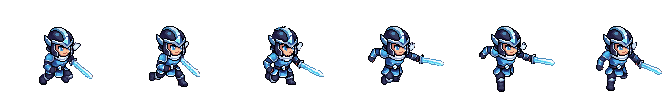
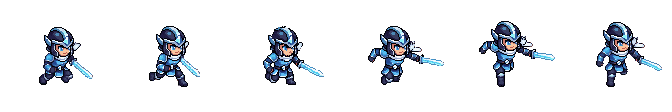
AERIN Phase 2: sửa Run theo Art Director (nâng F5/F6 về chân y86, dán lại khăn F4–F6, pixel-exact)
Claude-Session: https://claude.ai/code/session_01W9tcvqtq7TKxDYHKwgQMJZ

diff --git a/tieng-vong-cuoi-cung/art/aerin/phase2/sua-chay.py b/tieng-vong-cuoi-cung/art/aerin/phase2/sua-chay.py
@@ -1,0 +1,32 @@
+# Sửa Run theo Art Director (pixel-exact): F5 nâng 5px, F6 nâng 4px; F4–F6 dán lại cụm khăn trắng từ Idle F1 (chép nguyên pixel, chỉ vẽ vào chỗ trống = nằm sau thân)
+import os
+from PIL import Image
+D=os.path.dirname(os.path.abspath(__file__))+'/'
+idle=Image.open(D+'goc/dung-0.png').convert('RGBA')
+BOX=(68,39,83,53)   # cụm khăn trong Idle F1
+scarf=[(x,y,idle.getpixel((x,y))) for y in range(BOX[1],BOX[3]) for x in range(BOX[0],BOX[2]) if idle.getpixel((x,y))[3]]
+def helm(f):  # mép trên + mép phải vùng mũ (hàng 24..40)
+    pts=[(x,y) for y in range(20,41) for x in range(112) if f.getpixel((x,y))[3]]
+    return min(y for x,y in pts), max(x for x,y in pts if y<38)
+ht,hr=helm(idle)
+os.makedirs(D+'sua',exist_ok=True)
+SHIFT={4:5,5:4}
+for k in range(6):
+    f=Image.open(D+f'goc/chay-{k}.png').convert('RGBA')
+    if k in (3,4,5):
+        t,r=helm(f); dx,dy=r-hr,t-ht
+        for x,y,p in scarf:
+            q=(x+dx,y+dy)
+            if 0<=q[0]<112 and 0<=q[1]<112 and not f.getpixel(q)[3]: f.putpixel(q,p)
+    if k in SHIFT:
+        g=Image.new('RGBA',f.size); g.alpha_composite(f.crop((0,SHIFT[k],112,112)),(0,0)); f=g
+    f.save(D+f'sua/chay-{k}.png')
+fr=[Image.open(D+f'sua/chay-{k}.png') for k in range(6)]
+sh=Image.new('RGBA',(112*6,112)); [sh.paste(f,(i*112,0)) for i,f in enumerate(fr)]; sh.save(D+'chay-sheet.png')
+bg=Image.new('RGBA',sh.size,(58,63,68,255)); bg.alpha_composite(sh); bg.resize((sh.width*4,448),Image.NEAREST).save(D+'chay-x4.png')
+g=[]
+for f in fr:
+    b=Image.new('RGBA',(112,112),(58,63,68,255)); b.alpha_composite(f); g.append(b.resize((336,336),Image.NEAREST).convert('P',palette=Image.ADAPTIVE))
+g[0].save(D+'chay.gif',save_all=True,append_images=g[1:],duration=85,loop=0)
+def cy(p): return p[2]>200 and p[1]>180 and p[0]<170
+print([max(y for y in range(112) for x in range(112) if f.getpixel((x,y))[3] and not cy(f.getpixel((x,y)))) for f in fr])
